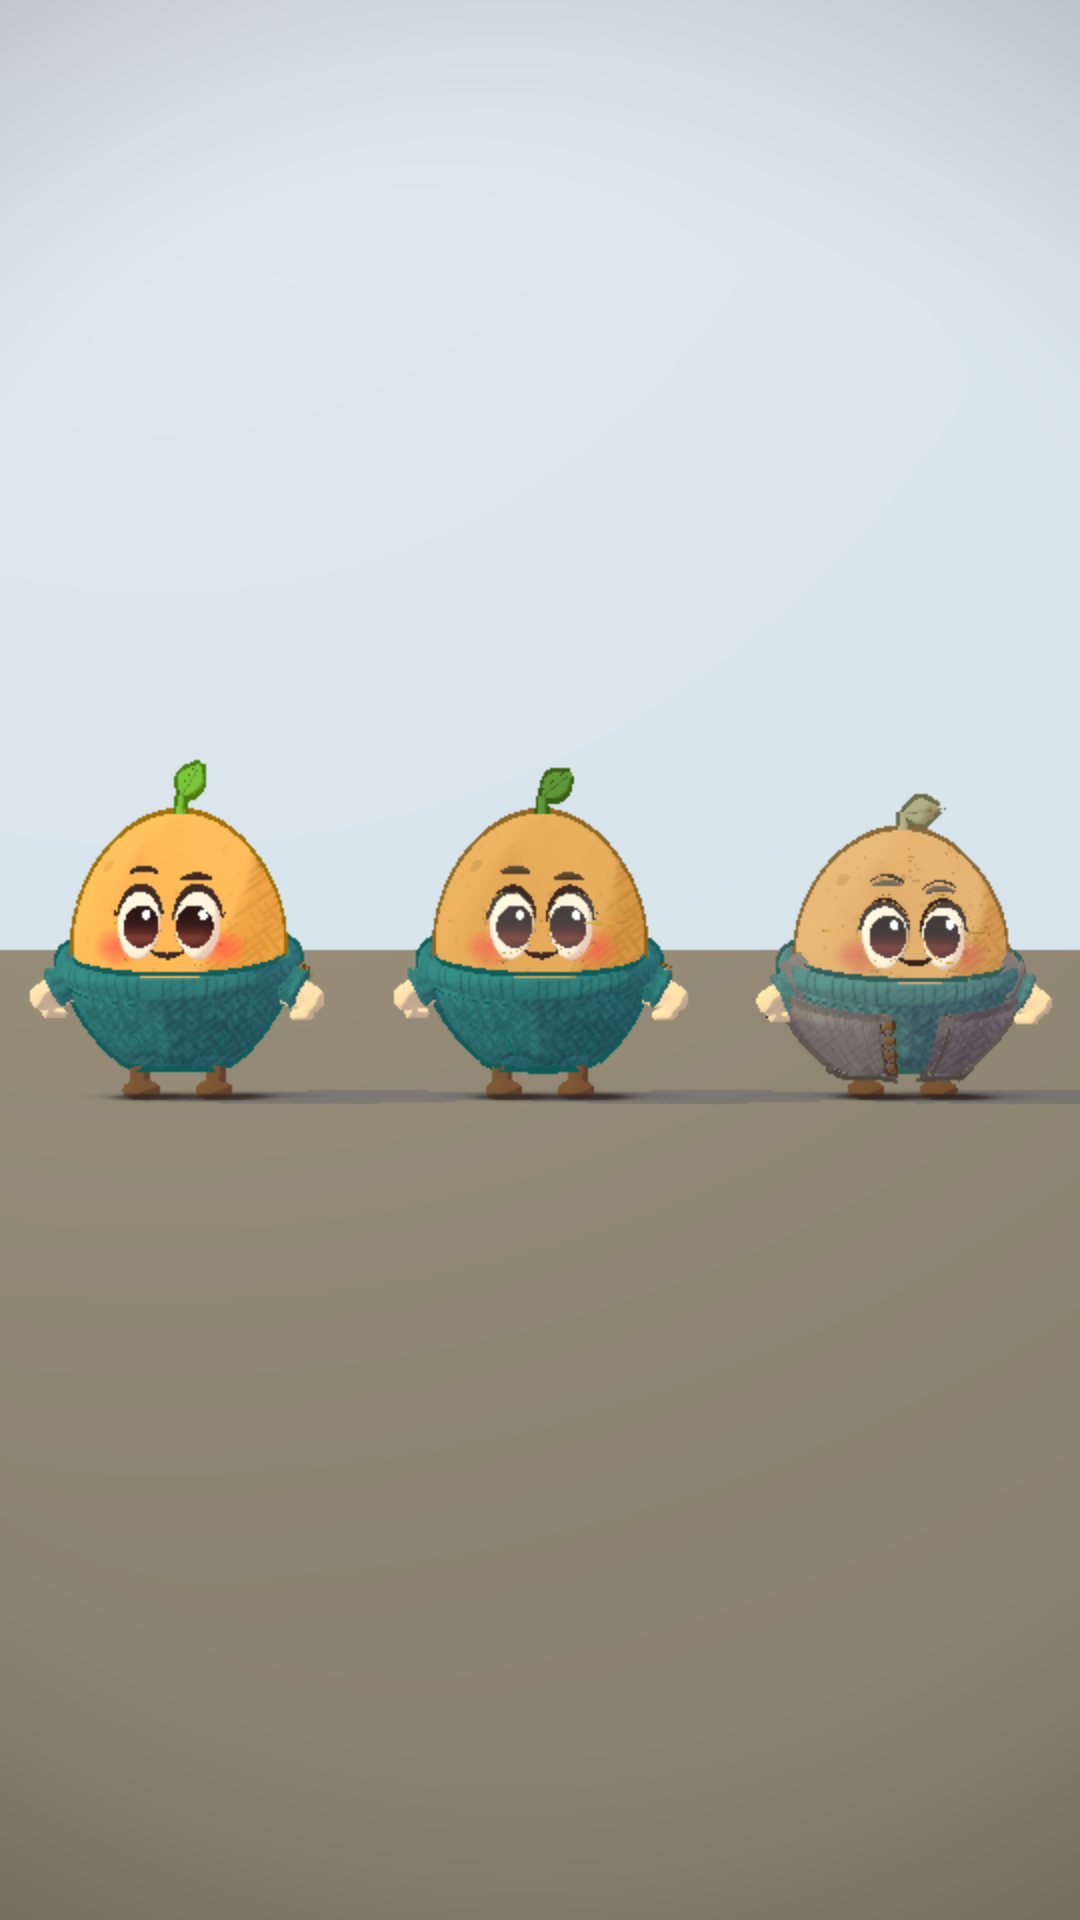
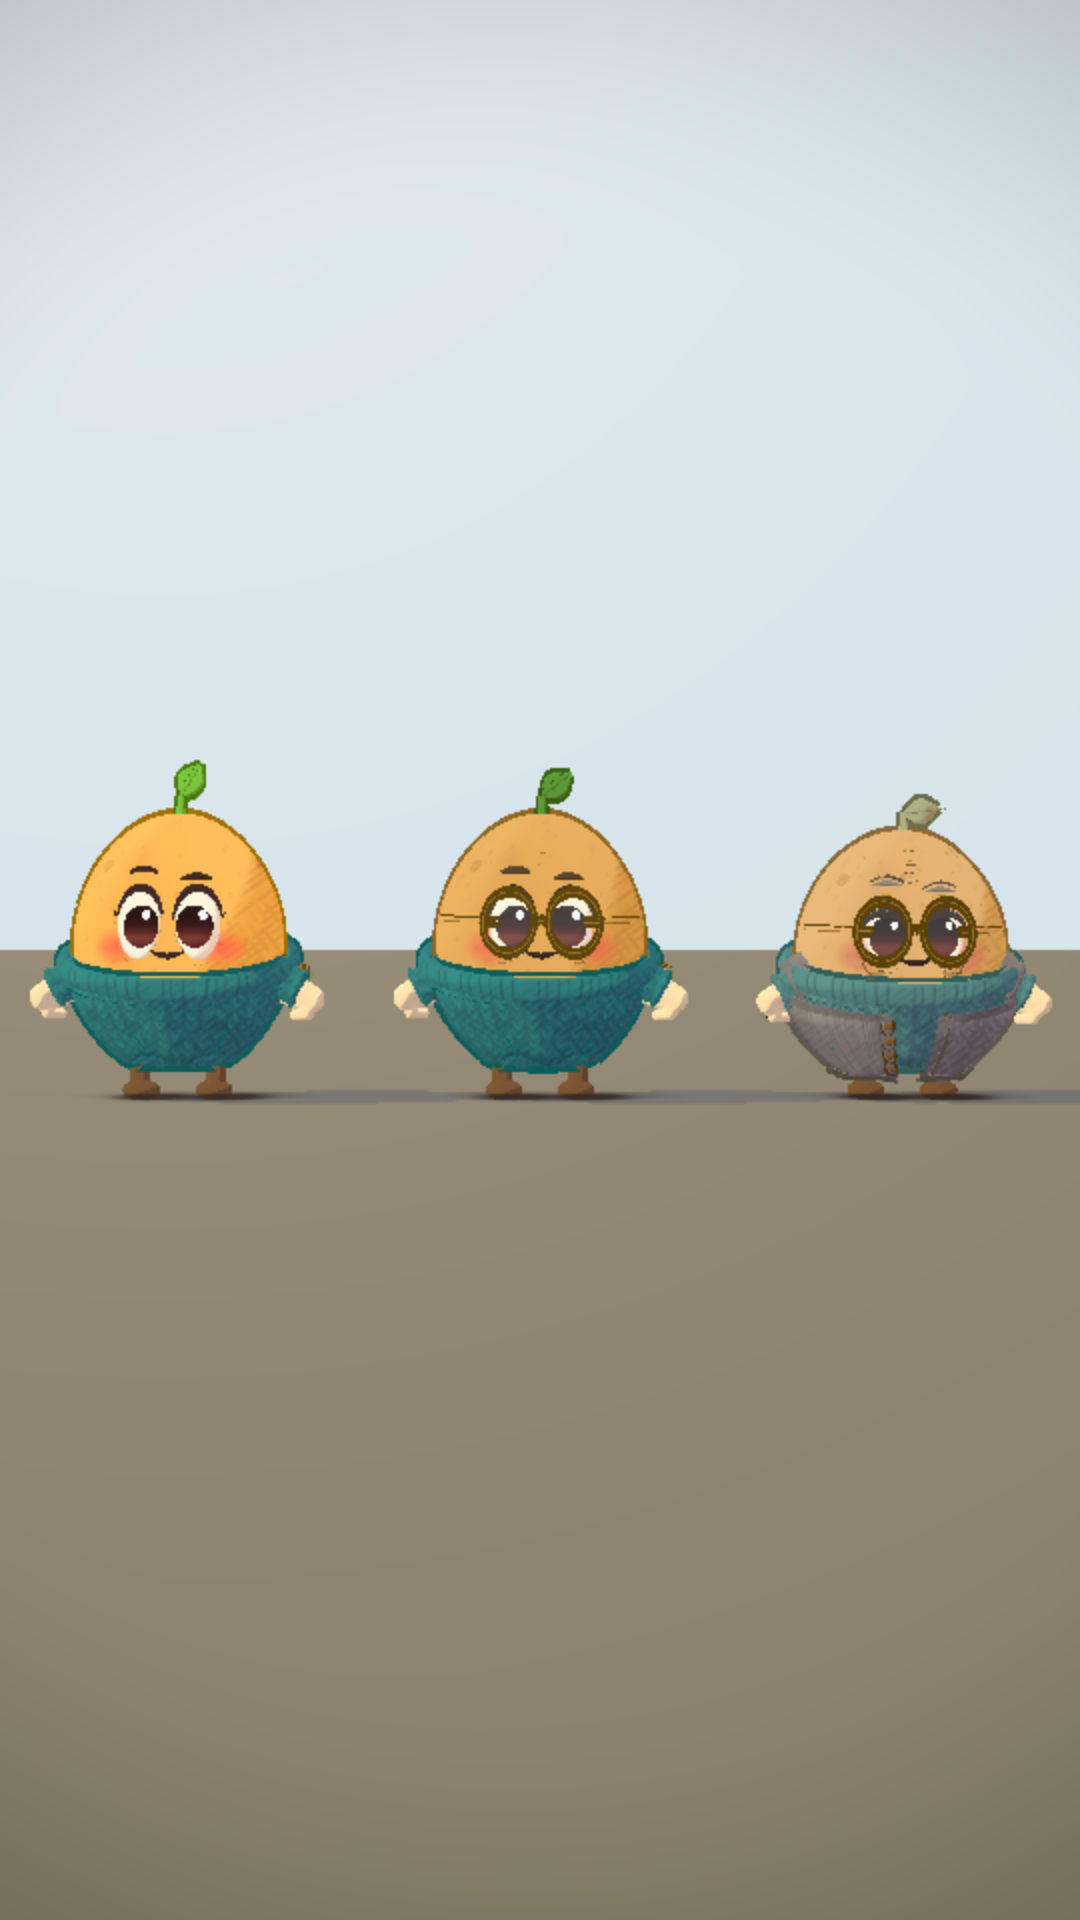
T3-T5 fix 1: stronger ageing
Claude-Session: https://claude.ai/code/session_01KjyEUNNv4xki6DxGUgMZM2

Changed region(s): [[0.7639, 0.4375, 0.9167, 0.5312], [0.4278, 0.4375, 0.5806, 0.5]]

diff --git a/engine/page/costumes-skipage.js b/engine/page/costumes-skipage.js
@@ -14,7 +14,7 @@ import { ribTexture, hash2 } from "./costumes-art-cast.js";
 //              mid: 3 crow's feet (14 mm) and 1 under-eye line (22 mm) per eye, round gold glasses. NO cardigan.
 //              old: 5 forehead lines (40-58 mm), 4 crow's feet (16-20 mm) and 2 under-eye lines per eye, 2 mouth lines (18 mm),
 //                   22 skin spots #c79a63, round gold glasses, the grey cardigan.
-//   glasses    false: leave the glasses off (default: on, both ages). Round gold wire: rim 2 mm #c8a23c, bridge 0.022 m between the
+//   glasses    false: leave the glasses off (default: on, both ages). Round gold wire: rim 4.4 mm #8a6a2a (drawn with the look's ink outline), bridge 0.022 m between the
 //              rims, arms along the sides of the head ending 0.01 m before the silhouette, lenses 12 % white sheen (see-through).
 //              The lens is sized from the face: radius = half the eye spacing minus half the bridge (about 0.082 m on Spud; the
 //              design's 0.052 would not cover his 0.072 x 0.09 eye), a touch taller than wide (glasses.tall, default 1.1).
@@ -22,7 +22,7 @@ import { ribTexture, hash2 } from "./costumes-art-cast.js";
 //              collar and sweater show), a rib band down both front edges, a ribbed hem, 4 buttons #7a5a34 at the heights 0.62, 0.50,
 //              0.38, 0.26 (their spacing, scaled over the built front: it is only 0.25 m tall), sleeves ending 0.11 m before the hand centre with a
 //              ribbed cuff (the sweater's own cuff shows past it), one stitched tan patch 0.09 x 0.07 on the LEFT elbow.
-//   crease     ink colour (default "#8a6a46", drawn at 0.55 opacity, not black)
+//   crease     ink colour (default "#6e5236", drawn at 0.85 opacity old / 0.6 mid, not black)
 //   patch      the elbow patch colour (default Spud's "#9a6a3c")
 // Posture (lean 4 / 14 degrees) and walk speed (0.85 / 0.55) are NOT character data keys: the clip generator sets them.
 
@@ -59,36 +59,53 @@ function faceMarks(C, ch, parts, old) {
   };
   // n points on an arc from a to b, bowed by `bow` metres sideways
   const arc = (a, b, bow, n = 8) => Array.from({ length: n + 1 }, (_, q) => { const t = q / n, k = Math.sin(Math.PI * t) * bow, dx = b[0] - a[0], dy = b[1] - a[1], l = Math.hypot(dx, dy) || 1; return [a[0] + dx * t - dy / l * k, a[1] + dy * t + dx / l * k]; });
-  const W0 = old ? 0.0026 : 0.0021;   // half width of a crease stroke (about 1.2 to 1.5 px at the atlas scale)
+  const W0 = old ? 0.0030 : 0.0024;   // half width of a crease stroke (4.8 to 6 mm across: it has to read on a phone)
+  const shades = [];
+  // a soft darker shade (a bag under the eye): a wide stroke, drawn in the shade material
+  const shade = (cu, cv, pts, W) => { const keep = lines.length; line(cu, cv, pts, W, 0.1); shades.push(lines.pop()); };
   let id = old ? 100 : 0;
   for (const sd of [-1, 1]) {
     const eye = [sd * eu, ev], out = sd * (0.9 * r + 0.008), eyeH = 0.9 * r * (ch.face.eyeStyle?.oval || 1.24);
     // crow's feet: a fan from just outside the outer corner, each its own angle and length
-    const nf = old ? 4 : 3, len0 = old ? 0.018 : 0.014;
+    const nf = old ? 4 : 3, len0 = old ? 0.030 : 0.021;
     for (let k = 0; k < nf; k++) {
       id++;
-      const ang = (k - (nf - 1) / 2) * (old ? 0.36 : 0.42) + (hs(id, 1) - 0.5) * 0.1, len = len0 * (0.86 + 0.28 * hs(id, 2)), s0 = [out + sd * 0.002, 0.004 + 0.004 * (hs(id, 3) - 0.5) + 0.003 * (k - (nf - 1) / 2)];
-      line(eye[0], eye[1], arc(s0, [s0[0] + sd * len * Math.cos(ang), s0[1] + len * Math.sin(ang)], sd * 0.0015 * (hs(id, 4) - 0.3)), W0);
+      const ang = (k - (nf - 1) / 2) * (old ? 0.5 : 0.55) + (hs(id, 1) - 0.5) * 0.1, len = len0 * (0.86 + 0.28 * hs(id, 2)), s0 = [out + sd * 0.002, 0.004 + 0.004 * (hs(id, 3) - 0.5) + 0.004 * (k - (nf - 1) / 2)];
+      line(eye[0], eye[1], arc(s0, [s0[0] + sd * len * Math.cos(ang), s0[1] + len * Math.sin(ang)], sd * 0.002 * (hs(id, 4) - 0.3)), W0);
     }
-    // under-eye lines: a long soft arc under the eye (22 mm); the old face adds a second, shorter one below it
-    id++; line(eye[0], eye[1], arc([sd * -0.006, -eyeH - 0.01], [sd * 0.052, -eyeH - 0.016], -0.0035 * sd), W0 * (old ? 1.1 : 1.0), 0.5);
-    if (old) { id++; line(eye[0], eye[1], arc([sd * 0.004, -eyeH - 0.028], [sd * 0.04, -eyeH - 0.036], -0.003 * sd), W0 * 0.9, 0.5); }
+    // under-eye line: a long curved arc under the eye (22 mm and more); the old face adds the bag's lower edge and a soft shade
+    id++; line(eye[0], eye[1], arc([sd * -0.012, -eyeH - 0.012], [sd * (old ? 0.07 : 0.052), -eyeH - 0.02], -0.005 * sd), W0 * 1.1, 0.5);
+    if (old) {
+      id++; line(eye[0], eye[1], arc([sd * -0.004, -eyeH - 0.034], [sd * 0.056, -eyeH - 0.044], -0.004 * sd), W0 * 0.9, 0.5);
+      shade(eye[0], eye[1], arc([sd * -0.008, -eyeH - 0.022], [sd * 0.062, -eyeH - 0.032], -0.004 * sd, 10), 0.011);
+      // deep nasolabial line: from the cheek under the outer eye, down past the mouth corner's height (one stroke, bowed outward; the eyes fill the middle of this face)
+      const e0 = [sd * 0.68, ev - 0.34], e1 = [sd * 0.5, L.mouthV - 0.3];
+      line(e0[0], e0[1], arc([0, 0], [(e1[0] - e0[0]) * su, (e1[1] - e0[1]) * sv], sd * 0.009, 12), W0 * 1.25, 0.5);
+    }
   }
   if (old) {
-    // forehead: five lines of 40-58 mm, arching a little, each its own height, length and shift
+    // forehead: five lines of 60-80 mm across the brow, following the curve of the head, each its own height, length and shift
     for (let k = 0; k < 5; k++) {
-      const half = (0.020 + 0.009 * hs(k, 11)) * 1, cv = 1.15 + 0.17 * k + 0.03 * (hs(k, 12) - 0.5), cu = (hs(k, 13) - 0.5) * 0.02;
-      const pts = Array.from({ length: 11 }, (_, q) => { const x = (q / 10 * 2 - 1) * half; return [x + cu, 0.005 * (1 - (x / half) ** 2) + 0.002 * Math.sin(x * 90 + k * 2) + 0.003 * (hs(k, 14) - 0.5) * (x / half)]; });
-      line(0, cv, pts, W0 * 1.5, 0.45);
+      const half = 0.030 + 0.010 * hs(k, 11), cv = 1.12 + 0.17 * k + 0.03 * (hs(k, 12) - 0.5), cu = (hs(k, 13) - 0.5) * 0.02;
+      const pts = Array.from({ length: 13 }, (_, q) => { const x = (q / 12 * 2 - 1) * half; return [x + cu, 0.006 * (1 - (x / half) ** 2) + 0.002 * Math.sin(x * 90 + k * 2) + 0.004 * (hs(k, 14) - 0.5) * (x / half)]; });
+      line(0, cv, pts, W0 * 1.2, 0.45);
     }
-    // laugh lines: one each side of the mouth (18 mm), curving down and in
-    for (const sd of [-1, 1]) line(sd * (L.mouthW + 0.085), L.mouthV + 0.1, arc([0, 0], [sd * 0.003, -0.018], sd * 0.004, 7), W0 * 1.1, 0.5);
+  } else {
+    // mid: two forehead lines (45-55 mm)
+    for (let k = 0; k < 2; k++) {
+      const half = 0.023 + 0.005 * hs(k, 21), cv = 1.2 + 0.2 * k, cu = (hs(k, 23) - 0.5) * 0.015;
+      line(0, cv, Array.from({ length: 11 }, (_, q) => { const x = (q / 10 * 2 - 1) * half; return [x + cu, 0.005 * (1 - (x / half) ** 2) + 0.0015 * Math.sin(x * 90 + k)]; }), W0, 0.45);
+    }
   }
-  if (lines.length) {
-    const m = new THREE.MeshBasicMaterial({ color: C.crease || "#8a6a46", transparent: true, opacity: 0.55, side: THREE.DoubleSide, depthWrite: false, polygonOffset: true, polygonOffsetFactor: -2, polygonOffsetUnits: -2 });
-    m.userData.ink = true; m.userData.noOutline = true;
-    const cr = new THREE.Mesh(merge(lines), m); cr.userData.inkStroke = true; cr.renderOrder = 1; parts.add(cr);
-  }
+  const crease = (geos, opacity, color) => {
+    if (!geos.length) return;
+    // opaque ink mixed toward the skin by `opacity` (the look draws a transparent stroke much paler than its opacity, and lifts basic colours by about a third, so the ink is darkened to read as the stated colour)
+    const mix = new THREE.Color("#e0a760").lerp(new THREE.Color(color).multiplyScalar(0.35), opacity), m = new THREE.MeshBasicMaterial({ color: mix, side: THREE.DoubleSide, polygonOffset: true, polygonOffsetFactor: -2, polygonOffsetUnits: -2 });
+    m.userData.noOutline = true; m.userData.noHatch = true;
+    const cr = new THREE.Mesh(merge(geos), m); cr.userData.inkStroke = true; cr.renderOrder = 1; parts.add(cr);
+  };
+  crease(shades, 0.5, "#8a6a46");
+  crease(lines, old ? 0.85 : 0.6, C.crease || "#6e5236");
   if (old) {
     // 22 skin spots: flat marks in the skin, each its own place, size, shape and shade, kept off the eyes, brows and mouth
     const gs = [], spotM = new THREE.MeshStandardMaterial({ color: "#c79a63", roughness: 0.9, vertexColors: true }); spotM.userData.noOutline = true; spotM.userData.lookRole = "skin";
@@ -113,10 +130,10 @@ function faceMarks(C, ch, parts, old) {
 function glasses(C, ch, parts) {
   const pl = ch.face?.place; if (!pl) return;
   const G = C.glasses && typeof C.glasses === "object" ? C.glasses : {}, L = ch.face.layout || { eyeU: 0.35, eyeV: 0.32 };
-  const RIM = 0.001, BRIDGE = G.bridge ?? 0.022, AWAY = G.away ?? 0.036;   // wire radius (2 mm across), gap between rims, how far in front of the skin the lenses stand
+  const RIM = 0.0022, BRIDGE = G.bridge ?? 0.022, AWAY = G.away ?? 0.036;   // wire radius (4.4 mm across), gap between rims, how far in front of the skin the lenses stand
   const eL = pl(-L.eyeU, L.eyeV), eR = pl(L.eyeU, L.eyeV);
   const lens = G.r ?? Math.max(0.052, (eL.pos.distanceTo(eR.pos) - BRIDGE) / 2 - RIM), tall = G.tall ?? 1.15;
-  const gold = new THREE.MeshStandardMaterial({ color: "#c8a23c", roughness: 0.35, metalness: 0.35 }); gold.userData.noOutline = true; gold.userData.noHatch = true;
+  const gold = new THREE.MeshStandardMaterial({ color: "#8a6a2a", roughness: 0.4, metalness: 0.2 }); gold.userData.noHatch = true;
   const glass = new THREE.MeshBasicMaterial({ color: "#ffffff", transparent: true, opacity: 0.03, depthWrite: false, side: THREE.DoubleSide }); glass.userData.noOutline = true; glass.userData.noHatch = true;
   const glint = new THREE.MeshBasicMaterial({ color: "#ffffff", transparent: true, opacity: 0.2, depthWrite: false }); glint.userData.noOutline = true; glint.userData.noHatch = true;
   const g = new THREE.Group(); g.name = "glasses";
@@ -125,7 +142,7 @@ function glasses(C, ch, parts) {
   for (const sd of [-1, 1]) {
     const e = sd < 0 ? eL : eR, c = e.pos.clone().addScaledVector(e.normal, AWAY); ctr[sd] = c;
     const q = new THREE.Quaternion().setFromUnitVectors(V(0, 0, 1), e.normal);
-    const rim = new THREE.Mesh(new THREE.TorusGeometry(lens, RIM, 5, 40), gold); rim.scale.set(1, tall, 1); rim.position.copy(c); rim.quaternion.copy(q); g.add(rim);
+    const rim = new THREE.Mesh(new THREE.TorusGeometry(lens, RIM, 6, 48), gold); rim.scale.set(1, tall, 1); rim.position.copy(c); rim.quaternion.copy(q); g.add(rim);
     const disc = new THREE.Mesh(new THREE.CircleGeometry(lens, 32), glass); disc.scale.set(1, tall, 1); disc.position.copy(c); disc.quaternion.copy(q); disc.renderOrder = 3; g.add(disc);
     // the sheen: one short bright arc at the upper outer side of the lens (the rest of the lens stays clear so the eye reads)
     { const gl = new THREE.Mesh(new THREE.TorusGeometry(lens * 0.8, 0.0014, 3, 10, 0.8), glint); gl.scale.set(1, tall, 1); gl.position.copy(c); gl.quaternion.copy(q); gl.rotateZ(sd > 0 ? 1.0 : 1.34); gl.translateZ(0.0005); gl.renderOrder = 4; g.add(gl); }
@@ -138,12 +155,12 @@ function glasses(C, ch, parts) {
       if (Math.abs(p.x) > xmax - 0.01) break;
       pts.push(p);
     }
-    if (pts.length > 2) g.add(new THREE.Mesh(new THREE.TubeGeometry(new THREE.CatmullRomCurve3(pts), 28, RIM, 4, false), gold));
+    if (pts.length > 2) g.add(new THREE.Mesh(new THREE.TubeGeometry(new THREE.CatmullRomCurve3(pts), 28, RIM, 5, false), gold));
   }
   // the bridge: a small arch over the nose between the rims' inner edges
   { const a = ctr[-1].clone(), b = ctr[1].clone(), m = a.clone().lerp(b, 0.5), dir = b.clone().sub(a).normalize();
     const p0 = a.clone().addScaledVector(dir, lens), p1 = b.clone().addScaledVector(dir, -lens), up = V(0, 1, 0);
-    g.add(new THREE.Mesh(new THREE.TubeGeometry(new THREE.QuadraticBezierCurve3(p0, p0.clone().lerp(p1, 0.5).addScaledVector(up, 0.012).addScaledVector(eL.normal.clone().lerp(eR.normal, 0.5), 0.004), p1), 8, RIM, 4, false), gold)); }
+    g.add(new THREE.Mesh(new THREE.TubeGeometry(new THREE.QuadraticBezierCurve3(p0, p0.clone().lerp(p1, 0.5).addScaledVector(up, 0.012).addScaledVector(eL.normal.clone().lerp(eR.normal, 0.5), 0.004), p1), 10, RIM, 5, false), gold)); }
   parts.add(g);
 }
 
